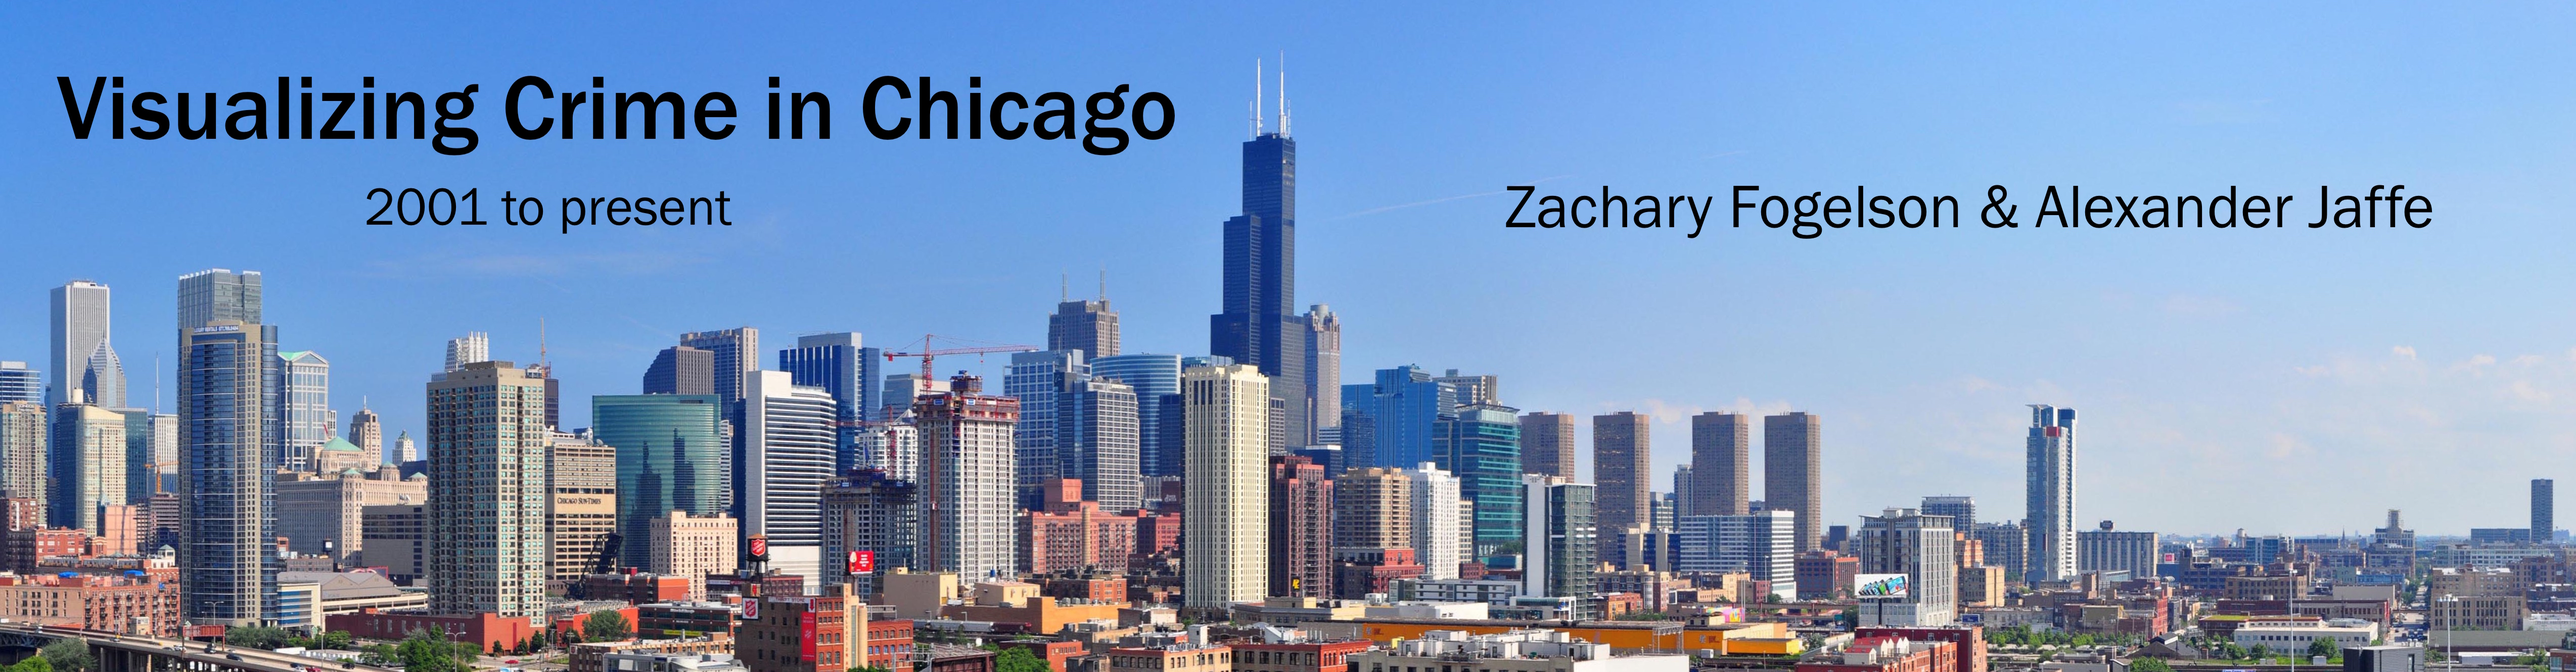
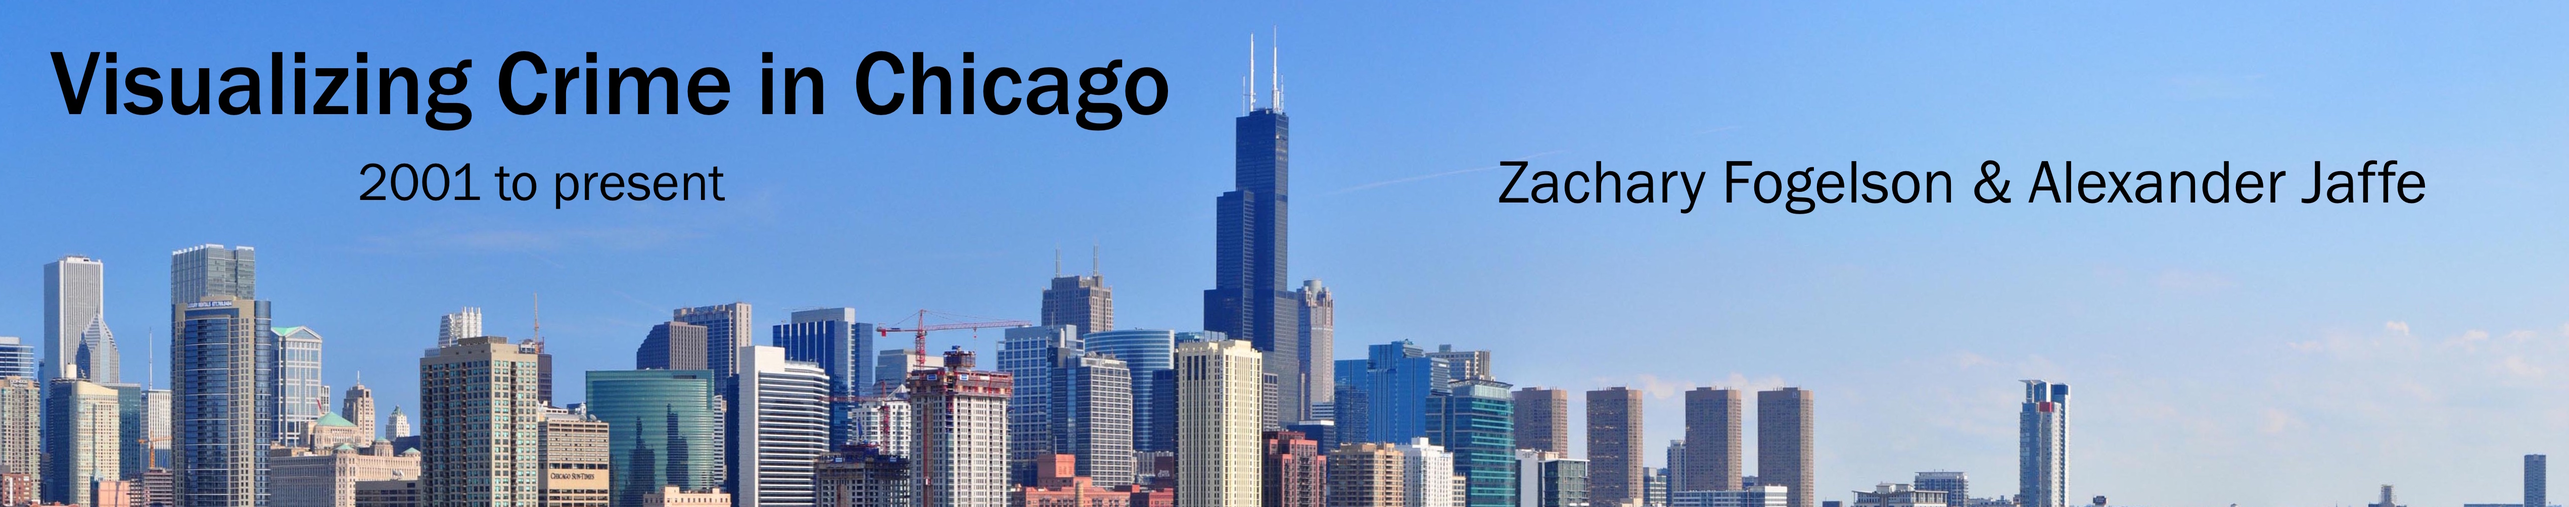
more intro material

diff --git a/index.html b/index.html
@@ -24,13 +24,22 @@
 </head>
 <body>
   <div class = "header">
-  <img src="images/header.jpg" alt="Chicago Skyline" style="width:100%;height:27%">
+  <img src="images/header.jpg" alt="Chicago Skyline" style="width:100%;height:20%">
   </div>
   </br>
   <div class="row">
-    <h3 class="text-center" id="currentSelection"></h3>
-    <div id="overtime" class="col-md-12">
+    <div id="overtime" class="col-md-6">
     </div>
+    <div id="writeup" class="col-md-6">
+    Over the last decade, crime rates have gone down in the city of Chicago (see left). For our project, we wanted to delve into just <i>how</i> things have changed: </div>
+  </div> </br> </br>
+  <div id="project-info" height="350">
+    <div id="video" class="col-md-6" style="text-align: center">
+    <iframe width="420" height="315" src="https://www.youtube.com/embed/dQw4w9WgXcQ?autoplay=1" frameborder="0" allowfullscreen></iframe></div>
+    <div id="data-etc" class="col-md-6" width="600" height="350">
+
+      Insert data sources and links to process book.
+  </div>
   </div>
   </br>
   <h2 class="text-center" id="currentSelection"></h2>

diff --git a/style/style.css b/style/style.css
@@ -13,12 +13,8 @@ table th {
   font: 10px sans-serif;
 }
 
-.title{
-  font-size: 25pt
-}
-
-.subtitle{
-  font-size: 15pt;
+.writeup{
+  font-size: 15pt
 }
 
 .axis path,
